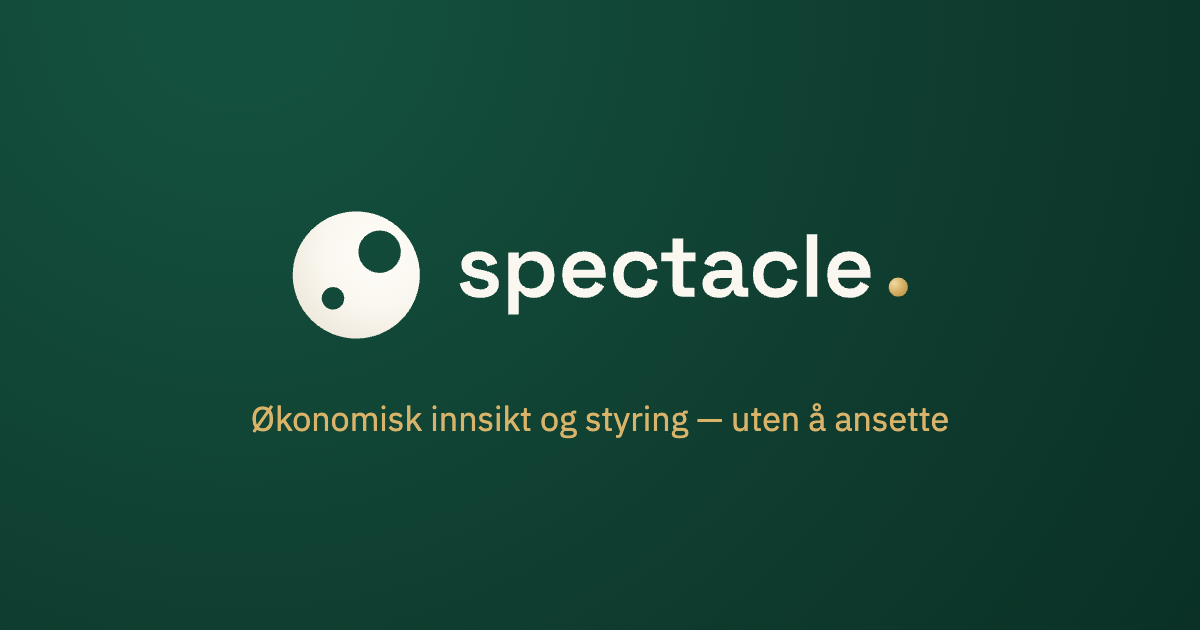
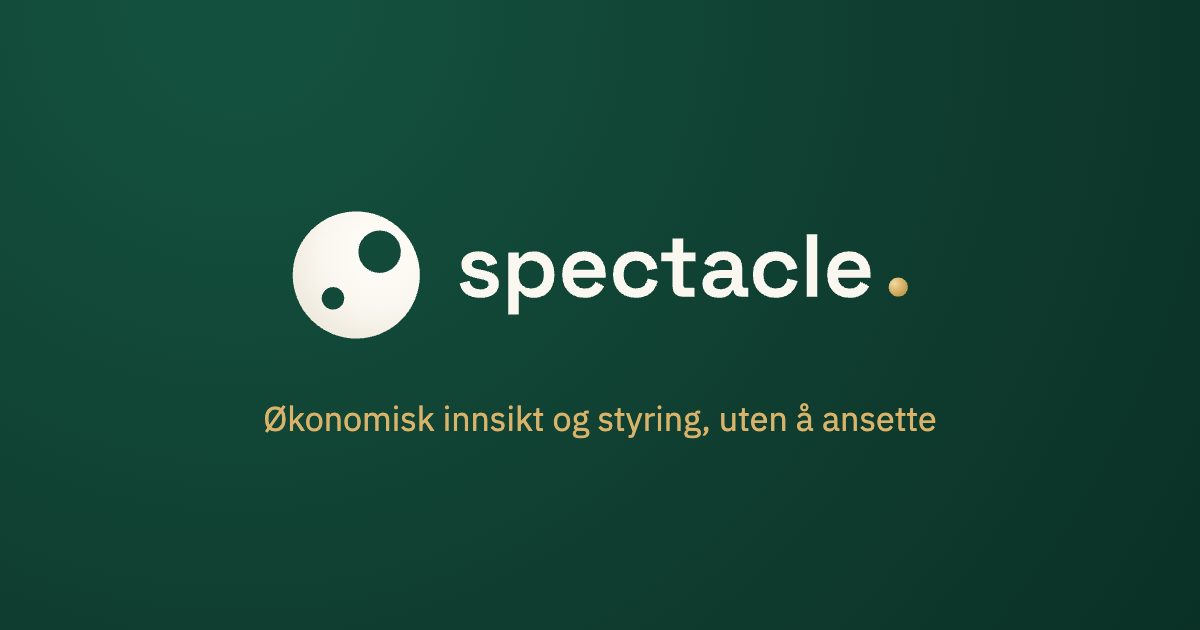
Språkvask: tankestreker erstattet med komma/kolon, «oppå regnskapet» omformulert

Changed region(s): [[0.185, 0.6333, 0.8017, 0.6937]]

diff --git a/spectacle/index.html b/spectacle/index.html
@@ -3,16 +3,16 @@
 <head>
   <meta charset="utf-8">
   <meta name="viewport" content="width=device-width, initial-scale=1">
-  <title>Spectacle — økonomisk innsikt og styring for små og mellomstore selskaper</title>
-  <meta name="description" content="Spectacle er et CFO-lag oppå din egen regnskapsfører: skreddersydd månedsrapport, styring og rådgivning til fast månedspris — uten å ansette.">
+  <title>Spectacle: økonomisk innsikt og styring for små og mellomstore selskaper</title>
+  <meta name="description" content="Spectacle er et CFO-lag basert på dataene fra din egen regnskapsfører: skreddersydd månedsrapport, styring og rådgivning til fast månedspris, uten å ansette.">
   <link rel="canonical" href="https://spetaclus.com/spectacle/">
   <link rel="icon" href="assets/img/favicon.svg" type="image/svg+xml">
   <link rel="alternate icon" href="assets/img/favicon-32.png" type="image/png">
   <link rel="stylesheet" href="assets/css/style.css">
   <meta property="og:type" content="website">
   <meta property="og:site_name" content="Spectacle">
-  <meta property="og:title" content="Spectacle — se hele bildet">
-  <meta property="og:description" content="Økonomisk innsikt og styring på CFO-nivå for små og mellomstore selskaper — uten å ansette.">
+  <meta property="og:title" content="Spectacle: se hele bildet">
+  <meta property="og:description" content="Økonomisk innsikt og styring på CFO-nivå for små og mellomstore selskaper, uten å ansette.">
   <meta property="og:url" content="https://spetaclus.com/spectacle/">
   <meta property="og:image" content="https://spetaclus.com/spectacle/assets/img/og-image.png">
   <meta property="og:locale" content="nb_NO">
@@ -22,7 +22,7 @@
 <header class="hero">
   <div class="ramme">
     <div class="hero__topp">
-      <a class="hero__logo" href="#" aria-label="Spectacle — til toppen">
+      <a class="hero__logo" href="#" aria-label="Spectacle, til toppen">
         <img src="assets/img/spectacle-logo-horisontal-hvit-glans.svg" alt="Spectacle" width="302" height="72">
       </a>
       <nav class="hero__nav" aria-label="Hovedmeny">
@@ -33,7 +33,7 @@
     </div>
     <div class="hero__innhold">
       <h1>Se hele bildet<span class="punktum">.</span></h1>
-      <p class="ingress">Spectacle gir små og mellomstore selskaper økonomisk innsikt og styring på CFO&#8209;nivå — uten å ansette. Du beholder regnskapsføreren din. Vi gjør tallene om til beslutninger.</p>
+      <p class="ingress">Spectacle gir små og mellomstore selskaper økonomisk innsikt og styring på CFO&#8209;nivå, uten å ansette. Du beholder regnskapsføreren din. Vi gjør tallene om til beslutninger.</p>
       <div class="hero__cta">
         <a class="knapp knapp--messing" href="mailto:post@spetaclus.com?subject=Kartleggingsm%C3%B8te%20Spectacle">Book et kartleggingsmøte</a>
         <span class="hero__cta-note">Uforpliktende · 30 minutter · digitalt</span>
@@ -48,17 +48,17 @@
     <div class="ramme todelt">
       <div>
         <p class="merkelapp">Hva er Spectacle</p>
-        <h2>Et økonomilag oppå regnskapet</h2>
-        <p class="ingress">Regnskapsføreren din fører tallene. Spectacle gjør dem nyttige: en fast månedsleveranse med rapport, analyse og rådgivning — tilpasset ditt selskap og dine spørsmål.</p>
+        <h2>Et økonomilag basert på dine regnskapsdata</h2>
+        <p class="ingress">Regnskapsføreren din fører tallene. Spectacle gjør dem nyttige: en fast månedsleveranse med rapport, analyse og rådgivning, tilpasset ditt selskap og dine spørsmål.</p>
       </div>
       <ul class="verdier">
         <li>
           <strong>Skreddersydd månedsrapport</strong>
-          Ikke en systemutskrift, men en rapport bygget rundt det som faktisk driver ditt selskap — utvikling, avvik og likviditet, forklart i klartekst.
+          Ikke en systemutskrift, men en rapport bygget rundt det som faktisk driver ditt selskap: utvikling, avvik og likviditet, forklart i klartekst.
         </li>
         <li>
           <strong>Svar når du trenger dem</strong>
-          Konkrete spørsmål om økonomien får konkrete svar — skriftlig og etterrettelig, fra én rådgiver som kjenner tallene dine.
+          Konkrete spørsmål om økonomien får konkrete svar, skriftlig og etterrettelig, fra én rådgiver som kjenner tallene dine.
         </li>
         <li>
           <strong>Fast månedspris</strong>
@@ -75,7 +75,7 @@
       <ol class="steg">
         <li>
           <h3>Kartleggingsmøte</h3>
-          <p>Et kort, digitalt møte om selskapet, tallene og hva du trenger. Vi forbereder oss i åpne kilder på forhånd — vi spør aldri om noe som kan finnes.</p>
+          <p>Et kort, digitalt møte om selskapet, tallene og hva du trenger. Vi forbereder oss i åpne kilder på forhånd, og spør aldri om noe som kan finnes.</p>
         </li>
         <li>
           <h3>Oppstartsprosjekt</h3>
@@ -83,7 +83,7 @@
         </li>
         <li>
           <h3>Løpende leveranse</h3>
-          <p>Fast månedsrapport og oppfølging etter avtalt leveranseliste — i den pakken som passer selskapet ditt.</p>
+          <p>Fast månedsrapport og oppfølging etter avtalt leveranseliste, i den pakken som passer selskapet ditt.</p>
         </li>
       </ol>
     </div>
@@ -92,7 +92,7 @@
   <section class="seksjon" id="pakkene">
     <div class="ramme">
       <p class="merkelapp">Pakkene</p>
-      <h2>Tre nivåer — samme skarpe blikk</h2>
+      <h2>Tre nivåer, samme skarpe blikk</h2>
       <div class="pakker">
         <article class="pakke">
           <h3>Innsikt</h3>
@@ -105,7 +105,7 @@
         </article>
         <article class="pakke">
           <h3>Styring</h3>
-          <p class="pakke__under">Økonomifunksjonen — også utad</p>
+          <p class="pakke__under">Økonomifunksjonen, også utad</p>
           <ul>
             <li>Alt i Innsikt</li>
             <li>Dialog med bank, revisor og styre på selskapets vegne</li>
@@ -123,7 +123,7 @@
           </ul>
         </article>
       </div>
-      <p class="pakker-note">Etter kartleggingsmøtet får du et skriftlig tilbud med konkret innhold og pris for ditt selskap — ingen overraskelser, ingen småtekst.</p>
+      <p class="pakker-note">Etter kartleggingsmøtet får du et skriftlig tilbud med konkret innhold og pris for ditt selskap. Ingen overraskelser, ingen småtekst.</p>
     </div>
   </section>
 
@@ -134,7 +134,7 @@
       <ul class="trygghet">
         <li>
           <strong>Bygger på din regnskapsfører</strong>
-          Ingen bytte av systemer eller regnskapsfører. Spectacle er et lag oppå regnskapet — ikke en erstatning for det.
+          Ingen bytte av systemer eller regnskapsfører. Spectacle bygger på regnskapsdataene du allerede har, som et tillegg, ikke en erstatning.
         </li>
         <li>
           <strong>Taushetsplikt og databehandleravtale</strong>
@@ -156,7 +156,7 @@
     <div class="ramme om">
       <p class="merkelapp">Hvem står bak</p>
       <h2>Én rådgiver som kjenner selskapet ditt</h2>
-      <p>Spectacle er utviklet og drives av Spetaclus AS. Du forholder deg til én rådgiver som kjenner selskapet og tallene dine — ikke et byrå med skiftende team. Metodikken er bygget for at du skal bruke minst mulig tid på å levere fra deg informasjon, og få mest mulig igjen i innsikt.</p>
+      <p>Spectacle er utviklet og drives av Spetaclus AS. Du forholder deg til én rådgiver som kjenner selskapet og tallene dine, ikke et byrå med skiftende team. Metodikken er bygget for at du skal bruke minst mulig tid på å levere fra deg informasjon, og få mest mulig igjen i innsikt.</p>
     </div>
   </section>
 
@@ -164,7 +164,7 @@
     <div class="ramme kontakt">
       <p class="merkelapp">Kontakt</p>
       <h2>Nysgjerrig på hva tallene dine kan fortelle?</h2>
-      <p class="ingress">Book et uforpliktende kartleggingsmøte — 30 minutter, digitalt. Så ser vi sammen om Spectacle passer for selskapet ditt.</p>
+      <p class="ingress">Book et uforpliktende kartleggingsmøte: 30 minutter, digitalt. Så ser vi sammen om Spectacle passer for selskapet ditt.</p>
       <a class="knapp knapp--messing" href="mailto:post@spetaclus.com?subject=Kartleggingsm%C3%B8te%20Spectacle">Book et kartleggingsmøte</a>
       <p class="kontakt__epost">eller skriv til <a href="mailto:post@spetaclus.com">post@spetaclus.com</a></p>
       <hr class="skillelinje">

diff --git a/404.html b/404.html
@@ -3,7 +3,7 @@
 <head>
   <meta charset="utf-8">
   <meta name="viewport" content="width=device-width, initial-scale=1">
-  <title>Fant ikke siden — Spectacle</title>
+  <title>Fant ikke siden | Spectacle</title>
   <link rel="icon" href="/spectacle/assets/img/favicon.svg" type="image/svg+xml">
   <link rel="stylesheet" href="/spectacle/assets/css/style.css">
   <style>
@@ -26,7 +26,7 @@
     <div>
       <img src="/spectacle/assets/img/spectacle-symbol-hvit-glans.svg" alt="Spectacle">
       <h1>Fant ikke siden<span class="punktum">.</span></h1>
-      <p>Siden du leter etter finnes ikke — men oversikten gjør det.</p>
+      <p>Siden du leter etter finnes ikke, men oversikten gjør det.</p>
       <a class="knapp knapp--messing" href="/spectacle/">Til forsiden</a>
     </div>
   </div>
